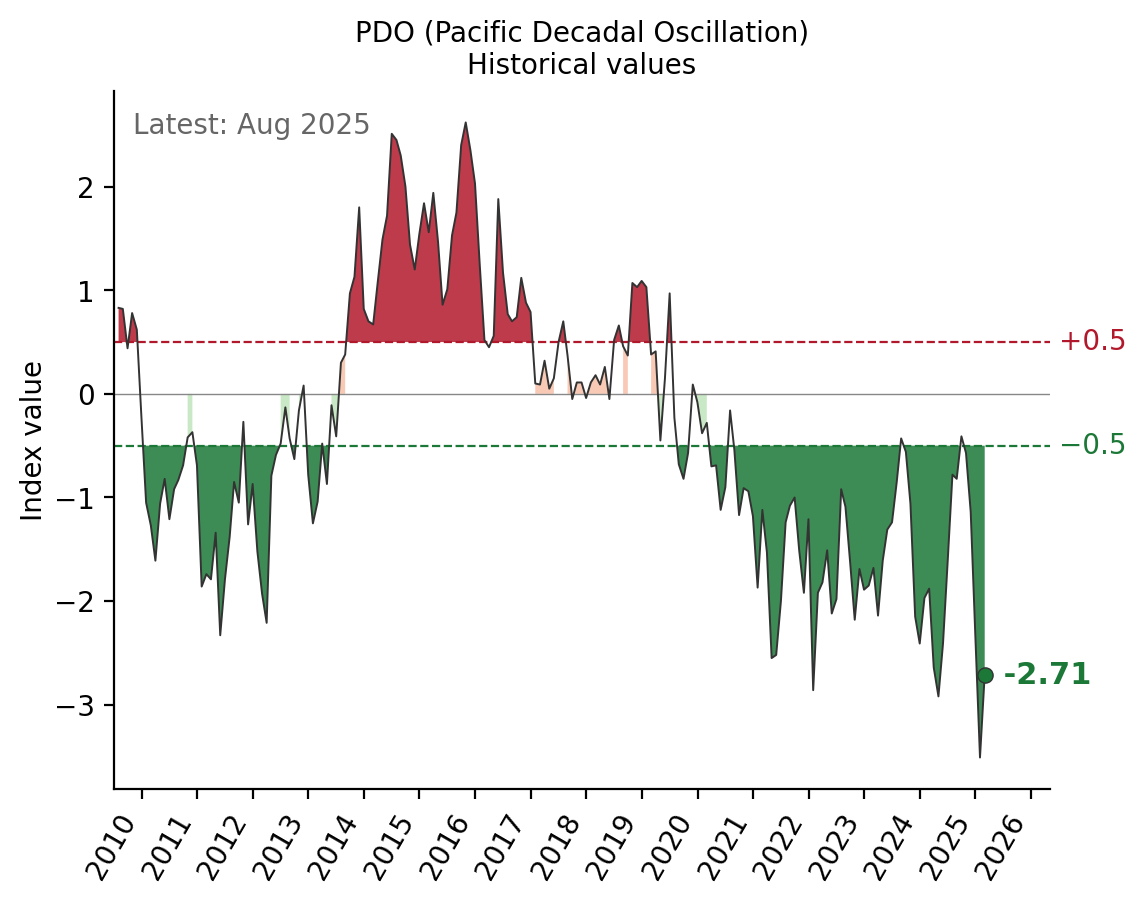
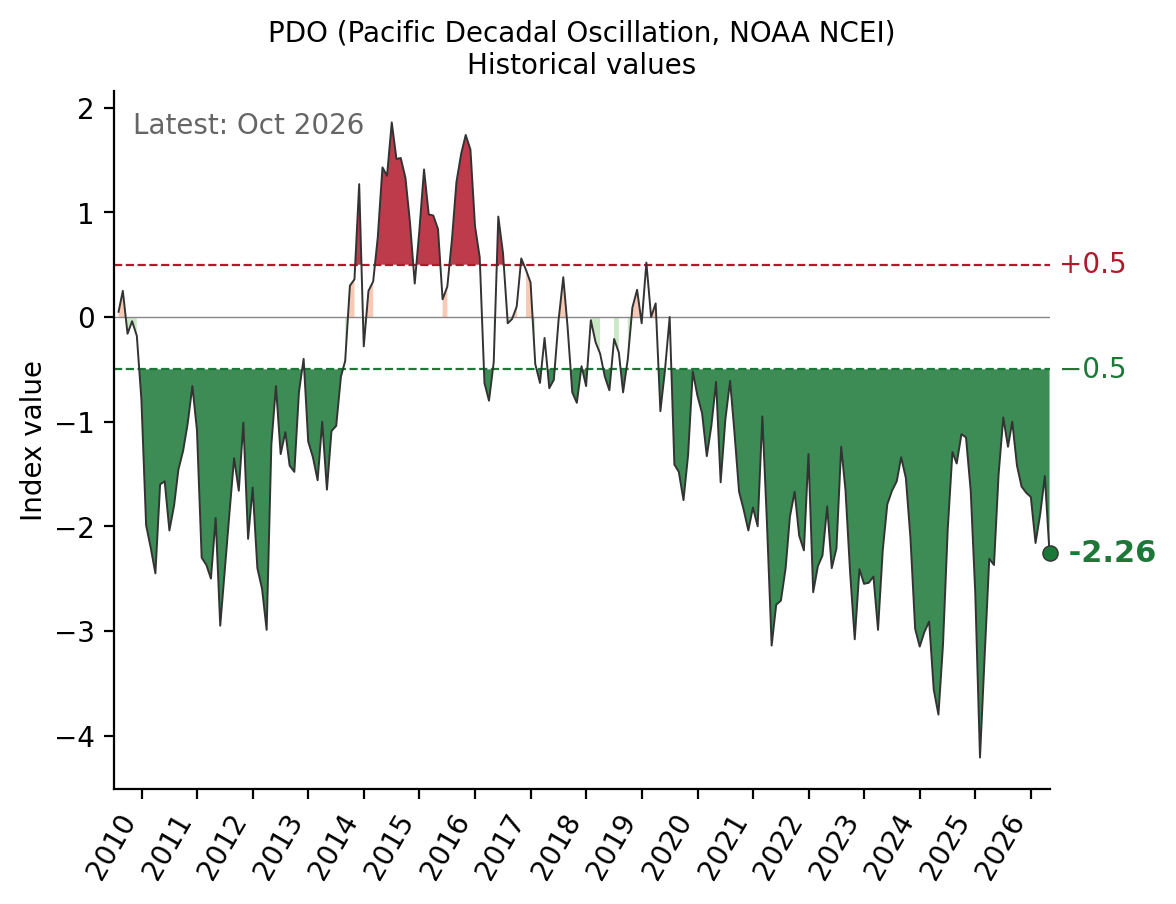
Time-series panels: PDO from NOAA NCEI (current); AMM marked as no longer published
- PDO panel: PSL's pdo.data (the original University of Washington series) ended
  Aug 2025. The panel now uses NOAA NCEI's ERSST v5 PDO (to Oct 2026): r = 0.98
  with the original since 2010, same spread, about 0.5 lower on average. Titled
  "NOAA NCEI" so nobody reads it against the maps' series by eye.
- AMM panel: its only source (Univ. of Wisconsin) ends Feb 2026, because the
  NCEP-NCAR reanalysis it is computed from stopped updating (files last changed
  2 Mar 2026). No current AMM exists, and reconstructions from ERSST v5 and OISST
  scored r 0.76-0.87 / RMSE 1.4-2.0 on held-out years against +/-0.5 bands, so no
  estimate is shown: the stamp says "no longer published" while the series is
  more than 4 months behind (it goes if the series resumes).
- LIVE_INDEX_SOURCES + _parse_ncei; one cache file per source, so a source
  change never compares against or falls back to the other source's copy.
- Current-value marker no longer clipped when the latest month sits at the
  right edge.
- Page methodology sentence and README say all this.

diff --git a/docs/survey/index.html b/docs/survey/index.html
@@ -1373,7 +1373,10 @@
         The panel beside each map shows the latest values NOAA has published for that index, as of the last
         page update; the date in its corner is the most recent month available, and some indices are published
         months late. The maps themselves were computed from copies downloaded earlier, and NOAA has since revised
-        some series slightly (its Niño3.4 now reads about 0.2 °C warmer).
+        some series slightly (its Niño3.4 now reads about 0.2 °C warmer). The PDO series used for the maps stopped
+        in August 2025, so the PDO panel shows NOAA NCEI's PDO instead; the two move together closely, but NCEI's
+        reads about 0.5 lower on average. The AMM has not been published since February 2026, when the reanalysis
+        it is calculated from stopped updating, so its panel ends there.
       </p>
       <h3 style="font-size:0.95rem;margin:0.8rem 0 0.6rem;">Spatial resolution (Country vs Pixel)</h3>
       <p style="margin:0 0 0.6rem;">

diff --git a/teleconnection_survey.py b/teleconnection_survey.py
@@ -218,7 +218,8 @@ def _label_offset_pt(ax, y: float, avoid: tuple[float, ...]) -> float:
     return float(min((d for d in range(-200, 201) if clear(d)), key=abs, default=0))
 
 
-def _draw_ts_panel(ax, series: pd.Series, index_name: str) -> None:
+def _draw_ts_panel(ax, series: pd.Series, index_name: str,
+                   note: str | None = None) -> None:
     """Draw the past-10-year time series of a climate index on ax."""
     thresh = INDEX_THRESHOLDS.get(index_name, 0.5)
     s = series.dropna()
@@ -261,7 +262,7 @@ def _draw_ts_panel(ax, series: pd.Series, index_name: str) -> None:
     # would overlap one.
     cur_val  = recent.iloc[-1]
     cur_date = recent.index[-1]
-    ax.scatter([cur_date], [cur_val], s=30, zorder=5,
+    ax.scatter([cur_date], [cur_val], s=30, zorder=5, clip_on=False,  # may sit on the right edge
                 color=_ts_color(cur_val, thresh), edgecolors="#333", linewidths=0.5)
     dy = _label_offset_pt(ax, cur_val, (thresh, -thresh))
     leader = (dict(arrowstyle="-", lw=0.6, color="#666", shrinkA=0, shrinkB=3)
@@ -288,7 +289,8 @@ def _draw_ts_panel(ax, series: pd.Series, index_name: str) -> None:
     if latest is not None:
         # top-left: the current value is always at the right edge, so the stamp
         # can never cover it there
-        ax.text(0.02, 0.97, f"Latest: {latest.strftime('%b %Y')}",
+        stamp = f"Latest: {latest.strftime('%b %Y')}" + (f" ({note})" if note else "")
+        ax.text(0.02, 0.97, stamp,
                 transform=ax.transAxes, fontsize=10, color="#666",
                 ha="left", va="top", zorder=6,
                 bbox=dict(facecolor="white", edgecolor="none", alpha=0.85, pad=1.5))
@@ -386,21 +388,53 @@ def load_indices(cfg: dict) -> pd.DataFrame:
 # +0.2 °C; TNA/TSA moved to a 1991–2020 base), so the two copies must not be mixed.
 LIVE_INDEX_MAX_AGE_DAYS = 7
 
+# Live sources: the analysis sources, except where that series has stopped.
+# PDO: PSL's pdo.data (the original University of Washington / Mantua series) ends
+# Aug 2025; NOAA NCEI's ERSST v5 PDO continues it (r = 0.98 with it since 2010, same
+# spread, about 0.5 lower on average). AMM: its only source (Univ. of Wisconsin,
+# mirrored by PSL) ends Feb 2026 because the NCEP-NCAR reanalysis it is computed
+# from stopped updating; no other current AMM exists, so its panel just says so.
+NCEI_PDO_URL = "https://www.ncei.noaa.gov/pub/data/cmb/ersst/v5/index/ersst.v5.pdo.dat"
+LIVE_INDEX_SOURCES = ({name: (url, "psl") for name, url in INDEX_SOURCES.items()}
+                      | {"pdo": (NCEI_PDO_URL, "ncei")})
 
-def _check_live_download(text: str, previous: Path) -> None:
-    """Raise unless `text` is a complete NOAA PSL file at least as recent as the
-    copy we already have. Catches error pages (no parse), truncated files (rows
-    stop before the end year the header gives) and stale mirrors (ends more than
-    a month before the previous copy; NOAA may retract a preliminary month)."""
-    s = _parse_psl(text)
-    end_year = int(text.splitlines()[0].split()[1])
-    if s.empty or s.index.max().year != end_year:
-        raise ValueError(f"rows stop before {end_year}, the end year in its header")
+
+def _parse_ncei(text: str) -> pd.Series:
+    """Parse a NOAA NCEI index table ('Year Jan ... Dec' rows, 99.99 = missing)
+    -> Series indexed by month-end."""
+    recs = {}
+    for ln in text.splitlines():
+        parts = ln.split()
+        if len(parts) != 13 or not parts[0].isdigit():
+            continue
+        for m, v in enumerate(parts[1:], start=1):
+            recs[pd.Timestamp(int(parts[0]), m, 1) + pd.offsets.MonthEnd(0)] = float(v)
+    if not recs:
+        raise ValueError("no 'year + 12 months' rows")
+    s = pd.Series(recs).sort_index()
+    return s.where(s.abs() < 99)
+
+
+_LIVE_PARSERS = {"psl": _parse_psl, "ncei": _parse_ncei}
+
+
+def _check_live_download(text: str, previous: Path, fmt: str = "psl") -> None:
+    """Raise unless `text` is a complete file at least as recent as the copy we
+    already have. Catches error pages (no parse), truncated PSL files (rows stop
+    before the end year the header gives; NCEI files have no such header) and
+    stale mirrors (ends more than a month before the previous copy; NOAA may
+    retract a preliminary month)."""
+    parse = _LIVE_PARSERS[fmt]
+    s = parse(text)
+    if fmt == "psl":
+        end_year = int(text.splitlines()[0].split()[1])
+        if s.empty or s.index.max().year != end_year:
+            raise ValueError(f"rows stop before {end_year}, the end year in its header")
     new = s.loc["2010":].dropna()
     if new.empty:
         raise ValueError("no values since 2010")
     if previous.exists():
-        old = _parse_psl(previous.read_text()).dropna()
+        old = parse(previous.read_text()).dropna()
         if len(old) and new.index[-1] < old.index[-1] - pd.DateOffset(months=1):
             raise ValueError(f"ends {new.index[-1]:%b %Y}, earlier than the copy we have "
                              f"({old.index[-1]:%b %Y})")
@@ -410,7 +444,8 @@ def load_live_indices(cfg: dict, max_age_days: float = LIVE_INDEX_MAX_AGE_DAYS,
                       allow_stale: bool = True) -> pd.DataFrame:
     """Latest NOAA release of every index, for the time-series panels only.
 
-    Each file is re-downloaded when its cached copy is older than `max_age_days`
+    Sources are LIVE_INDEX_SOURCES. Each file is re-downloaded when its cached
+    copy is older than `max_age_days`
     (0 = always). A download replaces the cached copy only if it passes
     _check_live_download, and is written atomically. If a download fails, the
     previous copy is used (or, with allow_stale=False, this raises); with no
@@ -419,15 +454,17 @@ def load_live_indices(cfg: dict, max_age_days: float = LIVE_INDEX_MAX_AGE_DAYS,
     live_dir = cfg["cache_dir"] / "live"
     live_dir.mkdir(parents=True, exist_ok=True)
     out = {}
-    for name, url in INDEX_SOURCES.items():
-        path = live_dir / f"{name}.data"
+    for name, (url, fmt) in LIVE_INDEX_SOURCES.items():
+        # one file per source, so a change of source never compares against or
+        # falls back to the other source's copy
+        path = live_dir / (f"{name}.data" if fmt == "psl" else f"{name}.{fmt}.data")
         age = time.time() - path.stat().st_mtime if path.exists() else None
         fresh = age is not None and 0 <= age < max_age_days * 86400
         if not fresh:
             try:
                 resp = requests.get(url, timeout=60)
                 resp.raise_for_status()
-                _check_live_download(resp.text, path)
+                _check_live_download(resp.text, path, fmt)
                 tmp = path.with_suffix(".tmp")
                 tmp.write_text(resp.text)
                 os.replace(tmp, path)
@@ -438,7 +475,7 @@ def load_live_indices(cfg: dict, max_age_days: float = LIVE_INDEX_MAX_AGE_DAYS,
                         + ("" if path.exists() else f"; no previous copy in {live_dir}")) from e
                 saved = pd.Timestamp(path.stat().st_mtime, unit="s").strftime("%Y-%m-%d")
                 print(f"  {name}: download failed ({e}); using the copy saved {saved}")
-        out[name] = _parse_psl(path.read_text())
+        out[name] = _LIVE_PARSERS[fmt](path.read_text())
     return pd.DataFrame(out)
 
 
@@ -1424,17 +1461,29 @@ def _plot_base_layer(ax, g_poly, analyzed_isos: set[str]) -> None:
     g_poly[ in_analysis].plot(ax=ax, color="#E8E8E8", edgecolor="#CCCCCC", linewidth=0.3)
 
 
+# Panel titles where the panel's series differs from the one the maps use.
+TS_PANEL_LABELS = {"pdo": "PDO (Pacific Decadal Oscillation, NOAA NCEI)"}
+# Series that have stopped at source: the panel's date stamp says so while the
+# latest value is more than TS_STALE_MONTHS old (so the note goes if it resumes).
+TS_STALE_NOTES = {"amm": "no longer published"}
+TS_STALE_MONTHS = 4
+
+
 def plot_ts_panels(live: pd.DataFrame, out_dir: Path) -> None:
     """Write ts_{index}.png for every index: the static panel the HTML shows beside
     each (zoomable) map, the same height as the map. `live` is load_live_indices()."""
     out_dir.mkdir(parents=True, exist_ok=True)
     fig_h = MAP_W * _MAP_DY / _MAP_DX
+    this_month = pd.Timestamp.today().to_period("M")
     for name in INDEX_SOURCES:
         fig, ax = plt.subplots(figsize=(TS_PANEL_W, fig_h))
         fig.subplots_adjust(left=0.14, right=0.86, top=0.85, bottom=0.14)
-        ax.set_title(f"{INDEX_LABELS.get(name, name.upper())}\nHistorical values",
-                     fontsize=10, pad=6)
-        _draw_ts_panel(ax, live[name], name)
+        label = TS_PANEL_LABELS.get(name, INDEX_LABELS.get(name, name.upper()))
+        ax.set_title(f"{label}\nHistorical values", fontsize=10, pad=6)
+        valid = live[name].dropna()
+        behind = (this_month - valid.index[-1].to_period("M")).n if len(valid) else 0
+        note = TS_STALE_NOTES.get(name) if behind > TS_STALE_MONTHS else None
+        _draw_ts_panel(ax, live[name], name, note=note)
         fig.savefig(out_dir / f"ts_{name}.png", dpi=200, bbox_inches="tight")
         plt.close(fig)
         s = live[name].dropna()
@@ -2687,7 +2736,10 @@ def generate_html_report(cfg: dict) -> None:
         The panel beside each map shows the latest values NOAA has published for that index, as of the last
         page update; the date in its corner is the most recent month available, and some indices are published
         months late. The maps themselves were computed from copies downloaded earlier, and NOAA has since revised
-        some series slightly (its Niño3.4 now reads about 0.2 °C warmer).
+        some series slightly (its Niño3.4 now reads about 0.2 °C warmer). The PDO series used for the maps stopped
+        in August 2025, so the PDO panel shows NOAA NCEI's PDO instead; the two move together closely, but NCEI's
+        reads about 0.5 lower on average. The AMM has not been published since February 2026, when the reanalysis
+        it is calculated from stopped updating, so its panel ends there.
       </p>
       <h3 style="font-size:0.95rem;margin:0.8rem 0 0.6rem;">Spatial resolution (Country vs Pixel)</h3>
       <p style="margin:0 0 0.6rem;">

diff --git a/README.md b/README.md
@@ -44,7 +44,11 @@ uv run python teleconnection_survey.py --skip-px     # country maps + report onl
 The time-series panels beside each map show where each index stands now, so they are drawn from NOAA's
 latest files, kept separately in `cache/live/` (re-downloaded when more than a week old), never from the
 pinned `cache/{index}.data` copies that the correlations and deep dives use. NOAA revises these series
-(Niño3.4 moved to ERSST v6 in 2026), so the two must not be mixed. `cache/` is not committed: the pinned
+(Niño3.4 moved to ERSST v6 in 2026), so the two must not be mixed. Two panels use a different series
+from the maps (`LIVE_INDEX_SOURCES`): PDO comes from NOAA NCEI's ERSST v5 PDO, because PSL's PDO (the
+original University of Washington series) ended in Aug 2025; the AMM has no current source at all (its
+only publisher, Univ. of Wisconsin, ends Feb 2026 because the NCEP-NCAR reanalysis it is computed from
+stopped updating), so its panel stays at Feb 2026 and says so. `cache/` is not committed: the pinned
 copies exist only on the machine that ran the analysis, and on a fresh clone the first run downloads NOAA's
 current files into that slot. To bring just the panels up to date — NOAA only, no DB or blob access (stops
 with an error if NOAA can't be reached):
